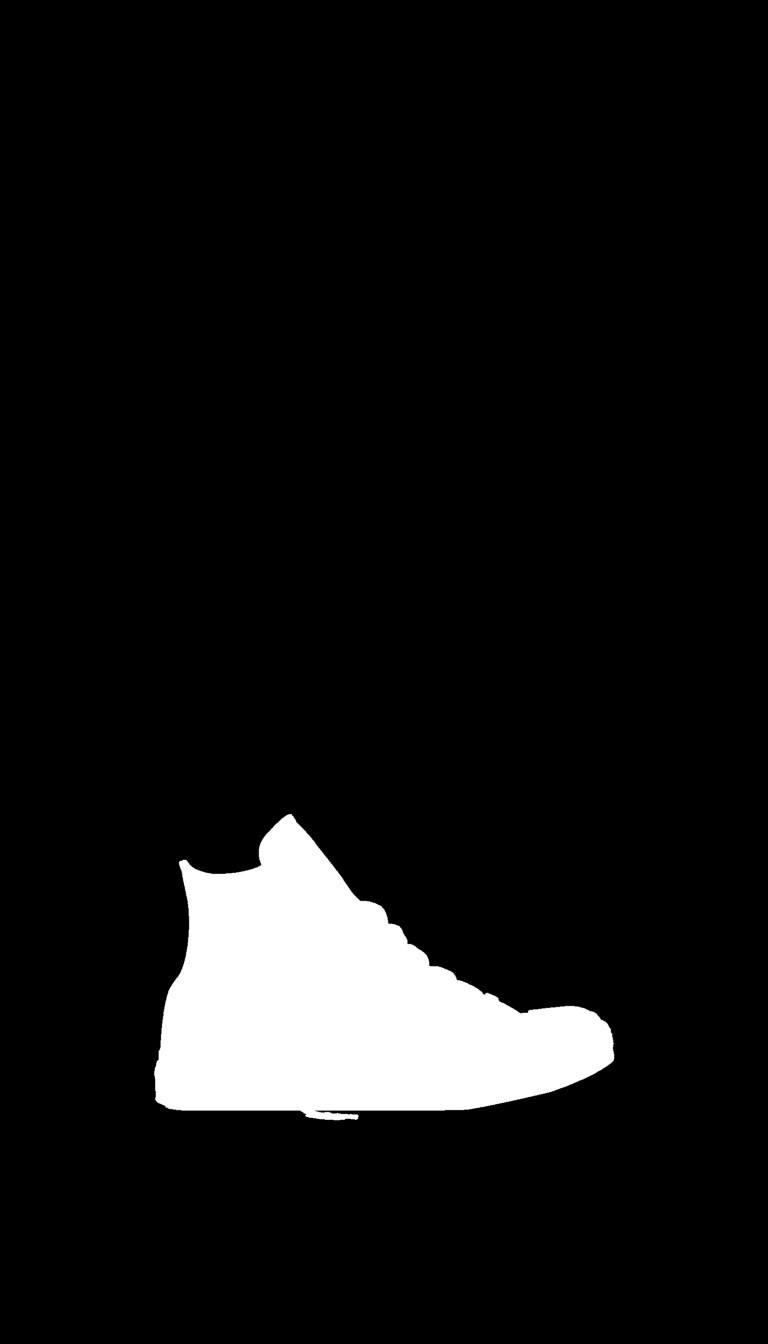
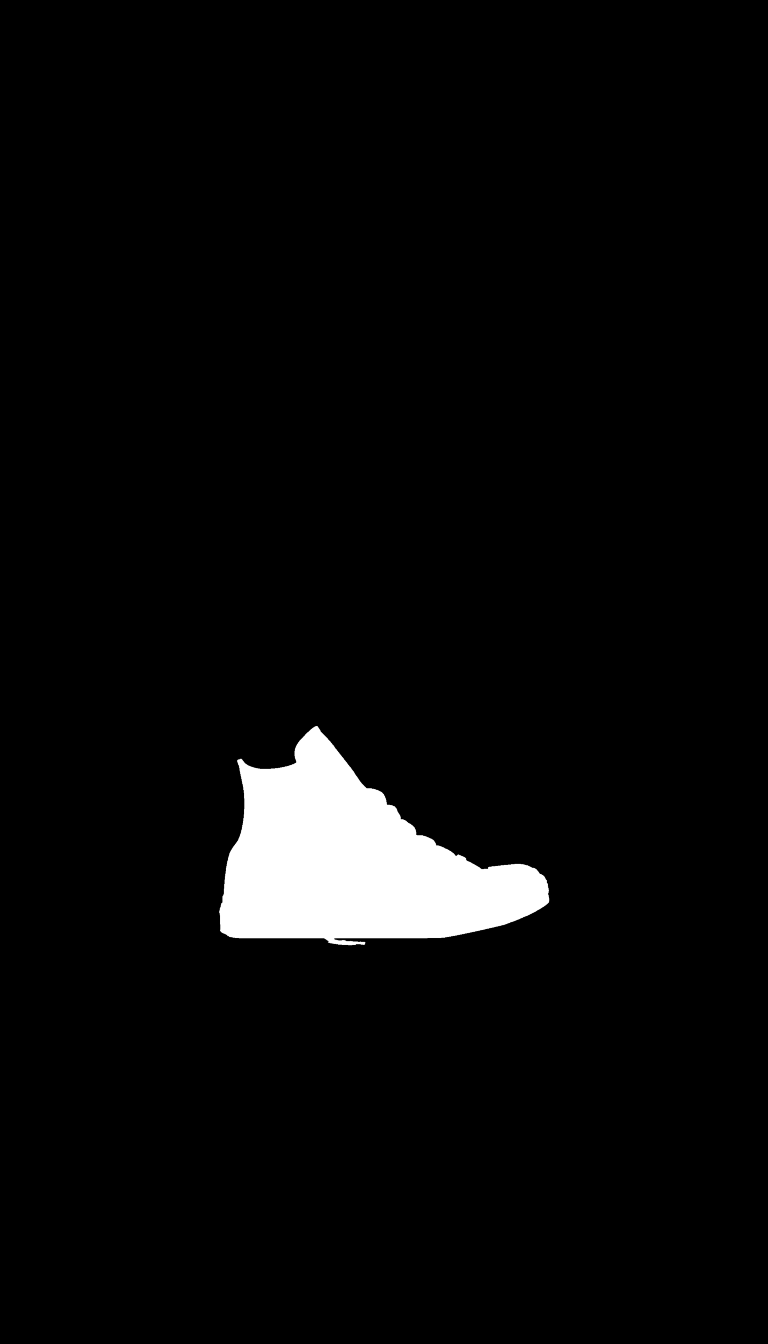
Shoe at the scenes' focus distance and without the light outline of the studio background; relight again [video-relight]
Claude-Session: https://claude.ai/code/session_011rBfzLu2aSbsXYmvjQK2BG

Changed region(s): [[0.1875, 0.5312, 0.8125, 0.8438]]

diff --git a/scripts/product-video/harmonize_merge.py b/scripts/product-video/harmonize_merge.py
@@ -1,6 +1,6 @@
 """Merges a relit frame (sdxl_harmonize.py) with the original composite: inside the product, the photo's fine detail
 (lettering, logo, stitching) is kept and only the soft light and colour come from the relit frame; outside, the relit
-frame is used as is, with its new shadows and reflections.
+frame is used as is (or the original scene, keep_scene, when the relit pass is low resolution).
 Usage: python harmonize_merge.py composite.png relit.png product_mask.png out.png [detail_sigma]"""
 import sys
 
@@ -8,12 +8,14 @@ import cv2
 import numpy as np
 
 
-def merge(original: np.ndarray, relit: np.ndarray, mask: np.ndarray, sigma: float = 4.0) -> np.ndarray:
+def merge(original: np.ndarray, relit: np.ndarray, mask: np.ndarray, sigma: float = 4.0, keep_scene: bool = True) -> np.ndarray:
     o, r = original.astype(np.float32), relit.astype(np.float32)
     low = lambda im: cv2.GaussianBlur(im, (0, 0), sigma)
     product = np.clip(low(r) + (o - low(o)), 0, 255)
     alpha = cv2.GaussianBlur(mask.astype(np.float32) / 255, (0, 0), 1.0)[..., None]
-    return np.clip(product * alpha + r * (1 - alpha), 0, 255).astype(np.uint8)
+    # keep_scene: the relit pass is low resolution (IC-Light runs at 512 px), so the scene stays the original's.
+    scene = o if keep_scene else r
+    return np.clip(product * alpha + scene * (1 - alpha), 0, 255).astype(np.uint8)
 
 
 def main() -> None:
